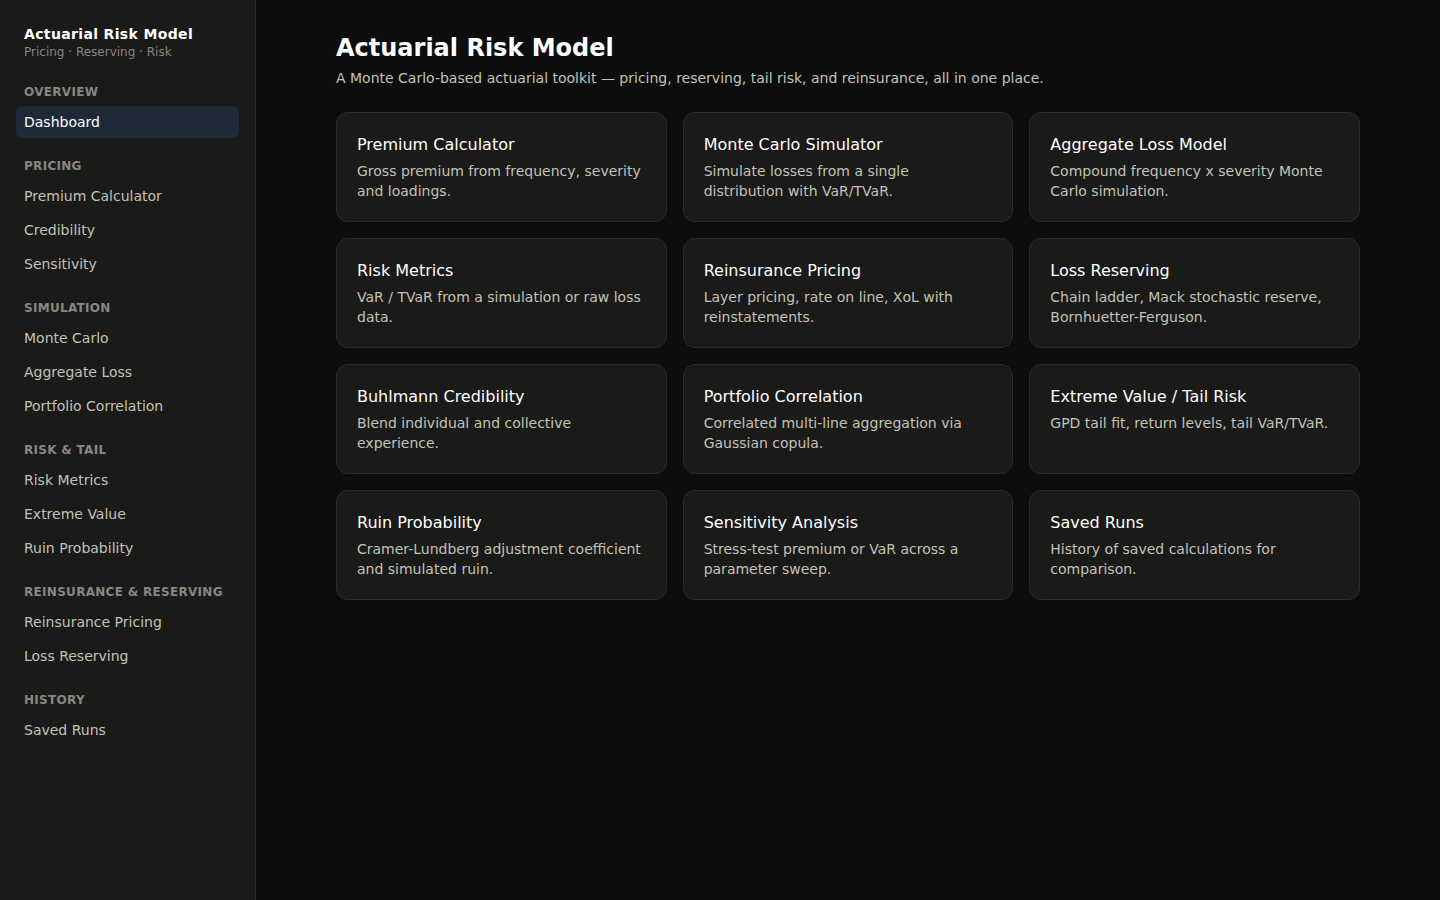
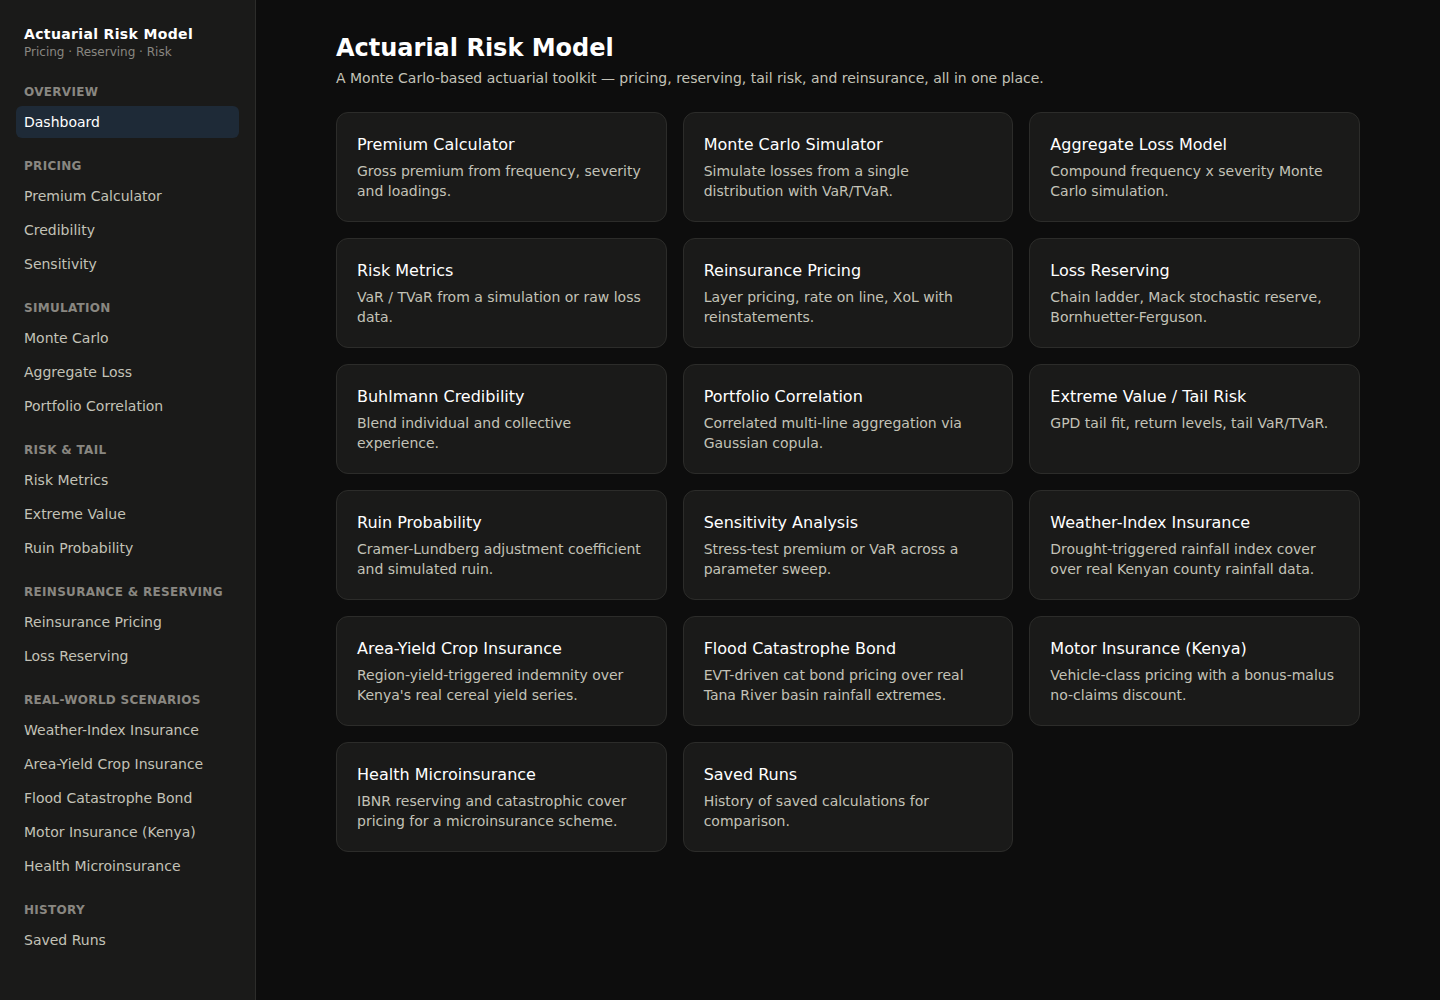
Document the 5 real-world scenario pages, with live screenshots
Also fixes a README inaccuracy: axios was listed as the HTTP client but the
app actually uses plain fetch (src/api/client.ts) -- axios is an unused
dependency, not what's wired up.

diff --git a/README.md b/README.md
@@ -33,6 +33,16 @@ A single-page dashboard that turns the [Actuarial Risk Model API](https://github
 - 🎚 **Sensitivity Analysis** — stress-test premium or VaR across a parameter sweep
 - 🕓 **Saved Runs** — name and revisit past calculations, backed by the API's run history
 
+## 🌍 Real-World Scenarios
+
+Five live demos over real public data, showing the toolkit applied to concrete products rather than abstract distributions:
+
+- 🌧 **Weather-Index Insurance** — pick a county (Homa Bay, West Pokot, Turkana), set a rainfall strike/exit, and watch 33 years of real seasonal rainfall turn into a payout history, a simulated payout distribution, and a burn-cost premium
+- 🌾 **Area-Yield Crop Insurance** — Kenya's real national cereal yield series (1961-2023) against a fitted trend, with indemnity triggered by yield shortfall
+- 🌊 **Flood Catastrophe Bond** — GPD tail fit to real daily rainfall in the Tana River basin, priced into expected loss, attachment/exhaustion probabilities, and coupon spread
+- 🚗 **Motor Insurance (Kenya)** — per-vehicle-class premium quotes with a bonus-malus discount, plus fleet-level aggregate loss simulation
+- 🏥 **Health Microinsurance** — a claims triangle with Mack's stochastic IBNR reserve, plus catastrophic/stop-loss cover pricing
+
 ## 📸 Screenshots
 
 <div align="center">
@@ -52,6 +62,21 @@ A single-page dashboard that turns the [Actuarial Risk Model API](https://github
 **Risk Metrics**
 ![Risk Metrics](docs/screenshots/risk-metrics.png)
 
+**Weather-Index Insurance — real climate shocks turning into payouts**
+![Weather Index](docs/screenshots/weather-index.png)
+
+**Area-Yield Crop Insurance**
+![Area Yield](docs/screenshots/area-yield.png)
+
+**Flood Catastrophe Bond**
+![Cat Bond](docs/screenshots/cat-bond.png)
+
+**Motor Insurance (Kenya)**
+![Motor Insurance](docs/screenshots/motor.png)
+
+**Health Microinsurance**
+![Health Microinsurance](docs/screenshots/health-micro.png)
+
 </div>
 
 ## 🧰 Tech stack
@@ -59,7 +84,6 @@ A single-page dashboard that turns the [Actuarial Risk Model API](https://github
 - React 19, React Router 7, TypeScript
 - Vite 8, Tailwind CSS v4
 - Recharts for histograms and distribution charts
-- Axios for API calls
 - Oxlint
 
 ## ⚙ Setup
@@ -101,7 +125,8 @@ src/
 ├── components/       # Layout, charts (Recharts), form/UI primitives, SaveRun
 ├── pages/             # One page per model: Premium, MonteCarlo, RiskMetrics,
 │                       # Reinsurance, Reserving, Credibility, Portfolio,
-│                       # ExtremeValue, Ruin, Sensitivity, RunHistory, Dashboard
+│                       # ExtremeValue, Ruin, Sensitivity, RunHistory, Dashboard,
+│                       # WeatherIndex, AreaYield, CatBond, Motor, HealthMicro
 ├── theme.ts           # Shared chart/theme tokens
 └── types.ts           # Request/response types mirroring the API's Pydantic schemas
 ```
